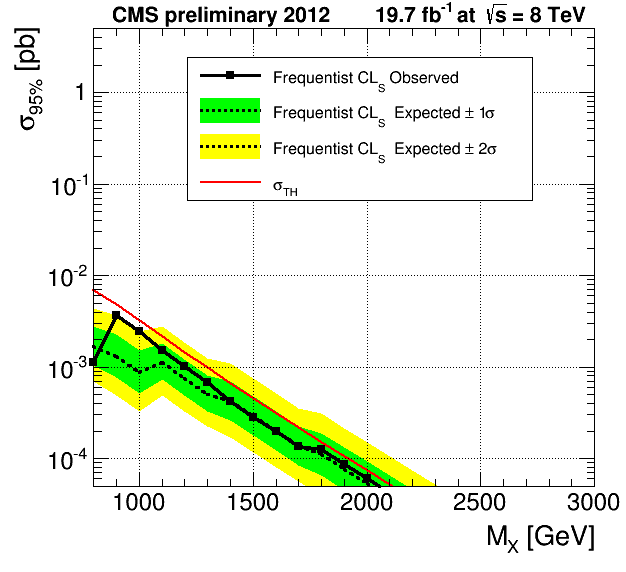
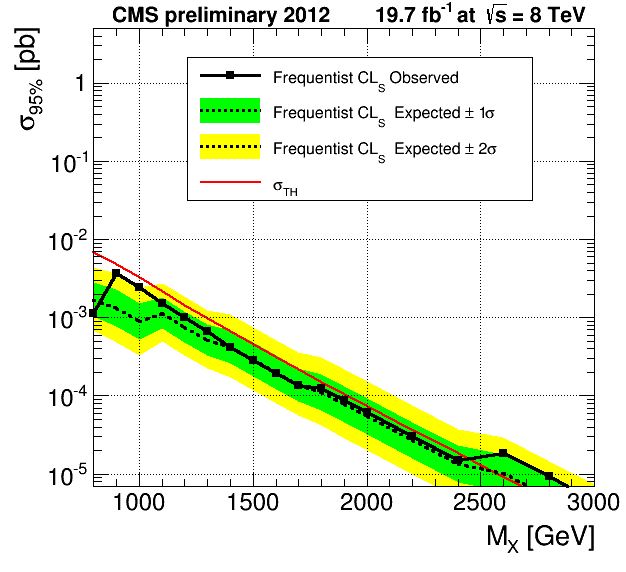
test

diff --git a/CLs_results/plot_Asymptotic_beyond.C b/CLs_results/plot_Asymptotic_beyond.C
@@ -404,8 +404,8 @@ void plot_Asymptotic_beyond(string outputname)
   grthSM10->SetName("SMXSection_2nd");
 
   // double fr_left = 590.0, fr_down = 1E-5, fr_right = 2000.0, fr_up = 0.5; 
-  double fr_left = 800.0, fr_down = 5E-5, fr_right = 3000.0, fr_up = 5;
-  //double fr_left = 800.0, fr_down = 7E-5, fr_right = 3000.0, fr_up = 5;
+  //double fr_left = 800.0, fr_down = 5E-5, fr_right = 3000.0, fr_up = 5;
+  double fr_left = 800.0, fr_down = 7E-6, fr_right = 3000.0, fr_up = 5;
 
   TCanvas *cMCMC = new TCanvas("c_lim_Asymptotic", "canvas with limits for Asymptotic CLs", 630, 600);
   cMCMC->cd();
